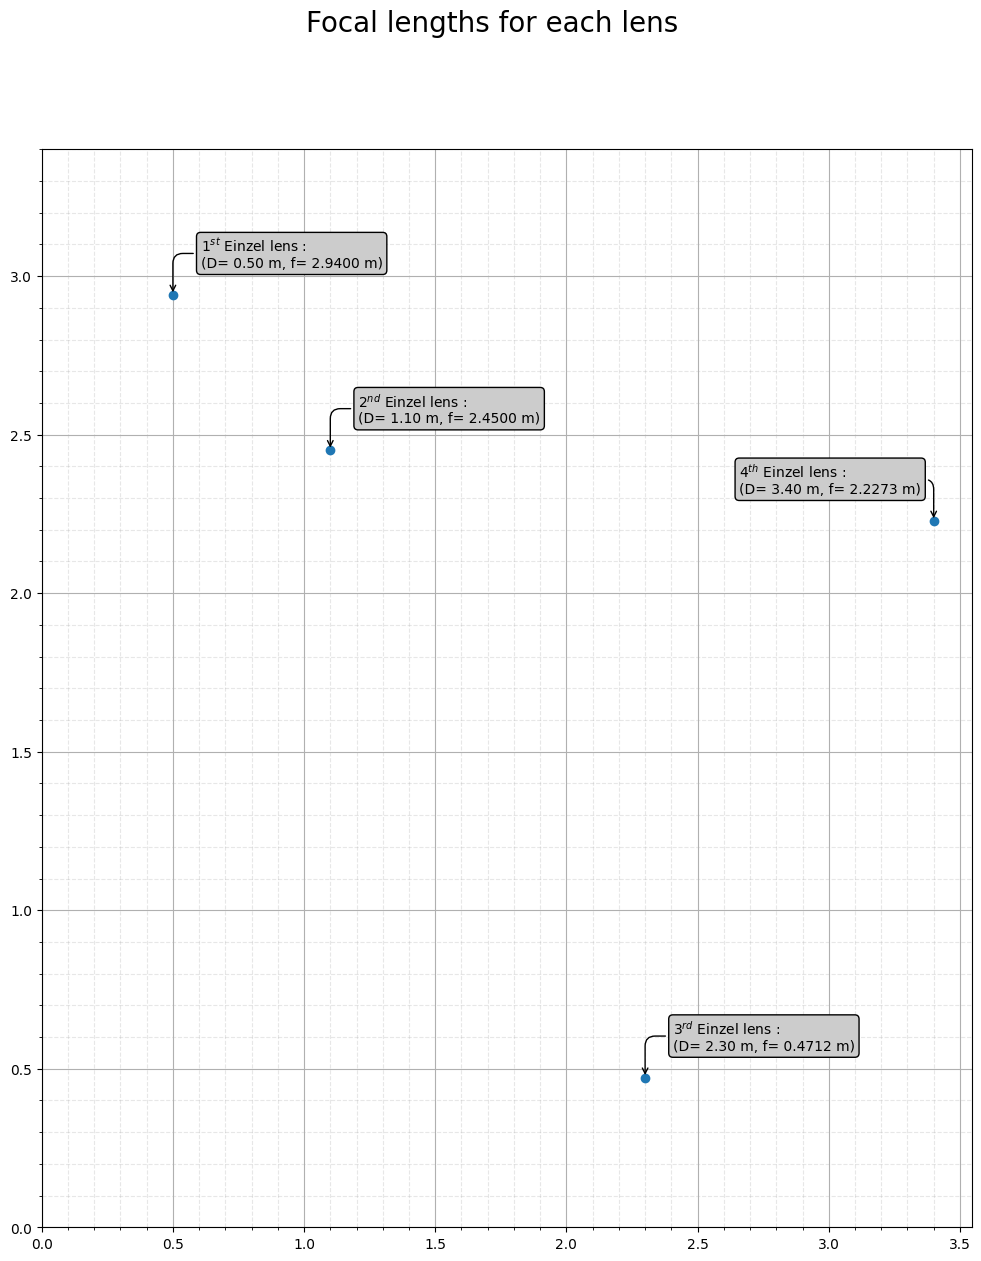
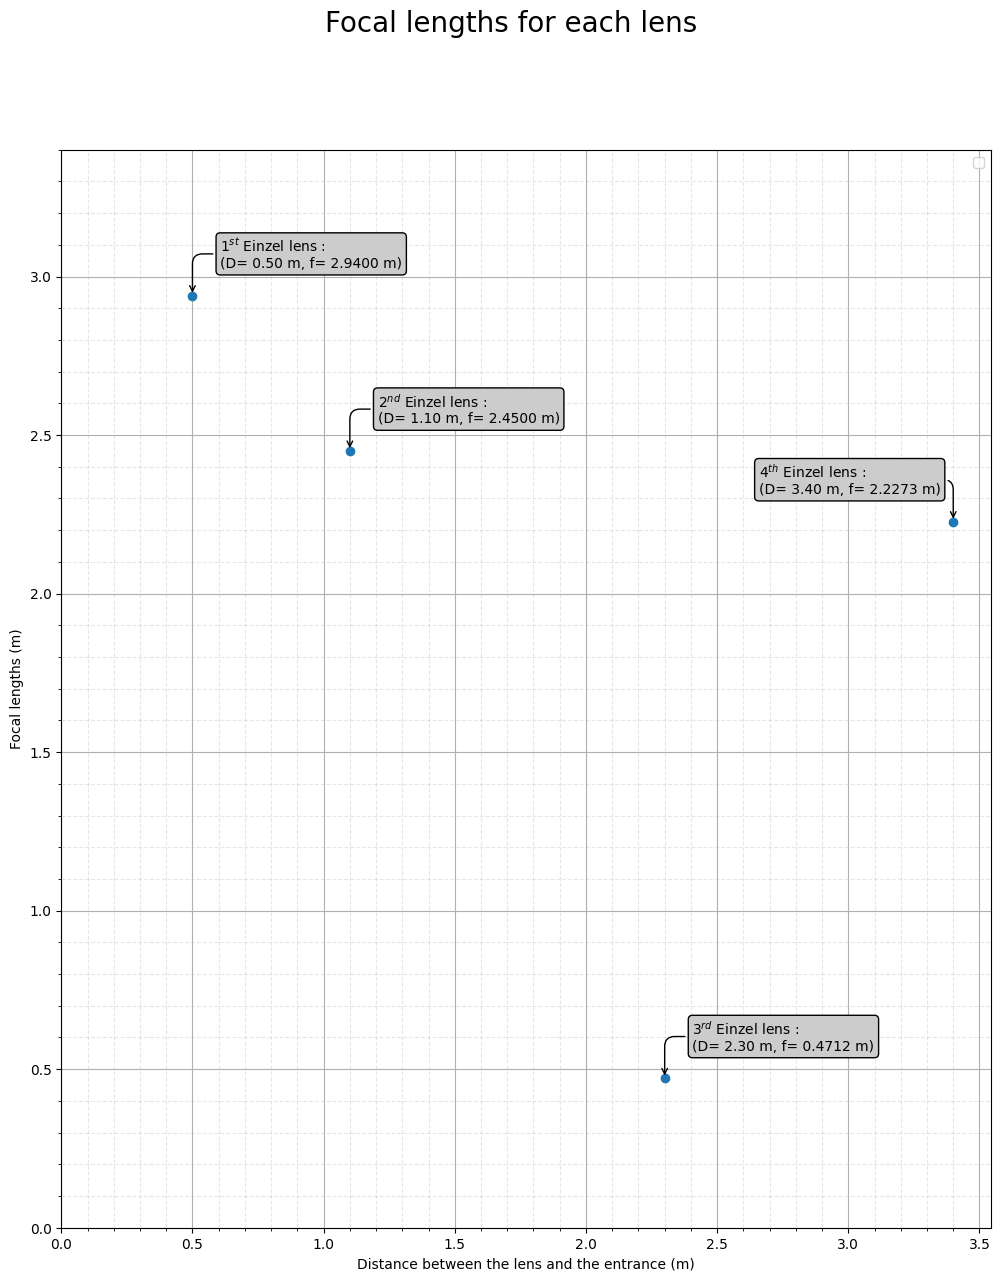
finding f program

diff --git a/finding_f.py b/finding_f.py
@@ -111,6 +111,10 @@ def find_f(L1, L2, L3, L4, a, b, g, eps, V, R):
     ax.set_xticks(grid_x_ticks, minor=True)
     ax.set_yticks(grid_y_ticks, minor=True)
 
+    ax.set_ylabel("Focal lengths (m)")
+    ax.set_xlabel("Distance between the lens and the entrance (m)")
+    plt.legend()
+
     plt.grid(which='both')
     plt.grid(which='minor', alpha=0.3, linestyle='--')
 
